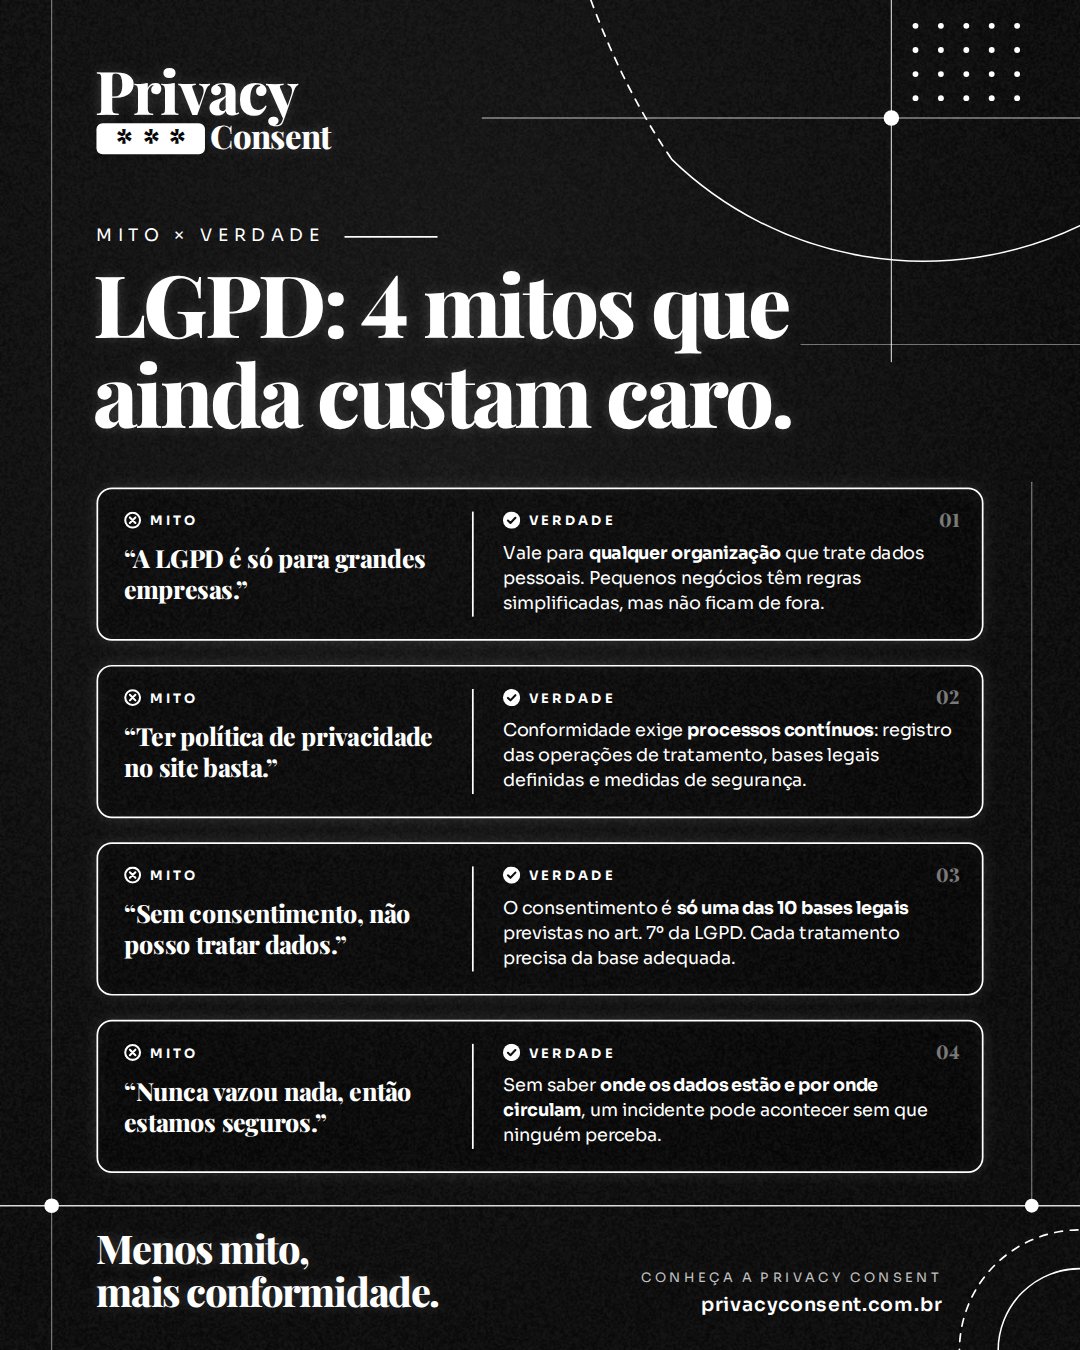
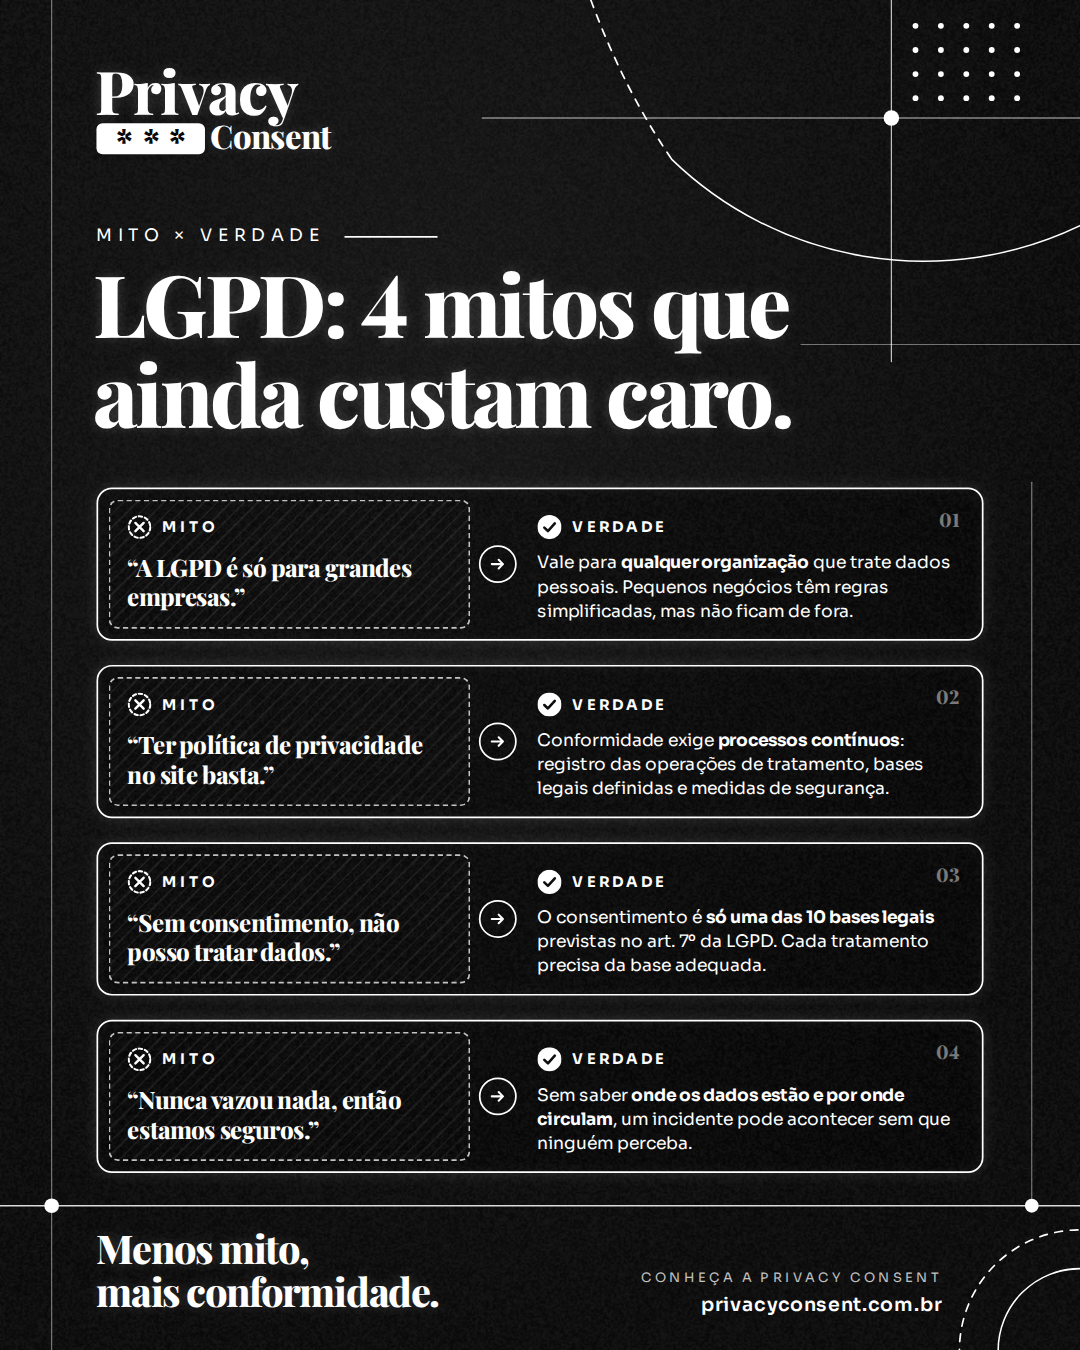
Mitos post: distinguish myth and truth at a glance
Myths sit in a dashed, hatched panel with a dashed X; truths use the
card's solid border with a filled check, linked by an arrow badge.

Claude-Session: https://claude.ai/code/session_01CNA9pLsGgXGqiNL45413r8

diff --git a/privacy-video/mitos.html b/privacy-video/mitos.html
@@ -29,17 +29,23 @@
 
   .card { position: absolute; left: 112px; width: 1030px; height: 178px; border: 2.5px solid #fff; border-radius: 18px;
           box-shadow: 0 0 18px rgba(255,255,255,.12), inset 0 0 18px rgba(255,255,255,.05); background: rgba(0,0,0,.45); }
-  .card .tag { position: absolute; display: flex; align-items: center; gap: 10px;
-               font-family: 'Sora', sans-serif; font-weight: 700; font-size: 15px; letter-spacing: 3.5px; color: #fff; }
+  .card .tag { position: absolute; display: flex; align-items: center; gap: 12px;
+               font-family: 'Sora', sans-serif; font-weight: 700; font-size: 17px; letter-spacing: 4px; color: #fff; }
   .card .tag svg { flex: none; }
-  .card .myth-tag { left: 30px; top: 26px; }
-  .card .true-tag { left: 470px; top: 26px; }
-  .card .myth { position: absolute; left: 30px; top: 62px; width: 375px; white-space: normal;
-                font-family: 'Playfair Display', serif; font-weight: 800; font-size: 29px; line-height: 36px; letter-spacing: -.6px;
-                color: #fff; }
-  .card .div { position: absolute; left: 434px; top: 26px; bottom: 26px; width: 2px; background: #fff; }
-  .card .truth { position: absolute; left: 470px; top: 60px; width: 530px; white-space: normal;
-                 font-family: 'Sora', sans-serif; font-size: 20.5px; line-height: 29px; color: #fff; letter-spacing: -.25px; }
+  /* MITO: fragile — dashed panel with diagonal hatch */
+  .card .myth-panel { position: absolute; left: 12px; top: 12px; bottom: 12px; width: 420px; border-radius: 11px;
+                      border: 2px dashed rgba(255,255,255,.75);
+                      background: repeating-linear-gradient(135deg, rgba(255,255,255,.07) 0 2px, transparent 2px 11px); }
+  .card .myth-tag { left: 34px; top: 30px; }
+  .card .myth { position: absolute; left: 34px; top: 74px; width: 360px; white-space: normal;
+                font-family: 'Playfair Display', serif; font-weight: 800; font-size: 28px; line-height: 34px; letter-spacing: -.6px; color: #fff; }
+  /* arrow: myth -> truth */
+  .card .arrow { position: absolute; left: 442px; top: 50%; transform: translateY(-50%); width: 44px; height: 44px; border-radius: 50%;
+                 border: 2px solid #fff; background: #070707; display: flex; align-items: center; justify-content: center; }
+  /* VERDADE: solid — sits on the card's own solid border */
+  .card .true-tag { left: 510px; top: 30px; }
+  .card .truth { position: absolute; left: 510px; top: 72px; width: 490px; white-space: normal;
+                 font-family: 'Sora', sans-serif; font-size: 20px; line-height: 28px; color: #fff; letter-spacing: -.3px; }
   .card .truth b { font-weight: 700; }
   .card .n { position: absolute; right: 26px; top: 20px; font-family: 'Playfair Display', serif; font-weight: 800; font-size: 22px;
              font-variant-numeric: lining-nums; color: #fff; opacity: .45; }
@@ -81,8 +87,9 @@
   <div class="abs serif glow" id="title">LGPD: 4 mitos que<br>ainda custam caro.</div>
 
   <template id="icons">
-    <svg data-x width="20" height="20" viewBox="0 0 20 20" fill="none" stroke="#fff" stroke-width="2.4" stroke-linecap="round"><circle cx="10" cy="10" r="8.6"/><path d="M6.8 6.8 L13.2 13.2 M13.2 6.8 L6.8 13.2"/></svg>
-    <svg data-ok width="20" height="20" viewBox="0 0 20 20" fill="#fff"><circle cx="10" cy="10" r="10"/><path d="M5.8 10.4 L8.7 13.2 L14.4 7.2" fill="none" stroke="#070707" stroke-width="2.4" stroke-linecap="round" stroke-linejoin="round"/></svg>
+    <svg data-x width="28" height="28" viewBox="0 0 28 28" fill="none" stroke="#fff" stroke-width="2.4" stroke-linecap="round" stroke-dasharray="4 3.2"><circle cx="14" cy="14" r="12.5"/><path d="M9.2 9.2 L18.8 18.8 M18.8 9.2 L9.2 18.8" stroke-dasharray="none" stroke-width="2.8"/></svg>
+    <svg data-ok width="28" height="28" viewBox="0 0 28 28" fill="#fff"><circle cx="14" cy="14" r="14"/><path d="M8 14.6 L12.2 18.6 L20.2 9.8" fill="none" stroke="#070707" stroke-width="3" stroke-linecap="round" stroke-linejoin="round"/></svg>
+    <svg data-arrow width="20" height="20" viewBox="0 0 20 20" fill="none" stroke="#fff" stroke-width="2.4" stroke-linecap="round" stroke-linejoin="round"><path d="M3 10 H16 M11 5 L16 10 L11 15"/></svg>
   </template>
 
   <div id="cards"></div>
@@ -108,9 +115,10 @@
   const icon = k => tpl.querySelector(`[data-${k}]`).outerHTML;
   document.getElementById('cards').innerHTML = items.map(([m, t], i) => `
     <div class="card" style="top:${566 + i * 206}px">
+      <div class="myth-panel"></div>
       <div class="tag myth-tag">${icon('x')}MITO</div>
       <div class="myth">“${m}”</div>
-      <div class="div"></div>
+      <div class="arrow">${icon('arrow')}</div>
       <div class="tag true-tag">${icon('ok')}VERDADE</div>
       <div class="truth">${t}</div>
       <div class="n">0${i + 1}</div>
